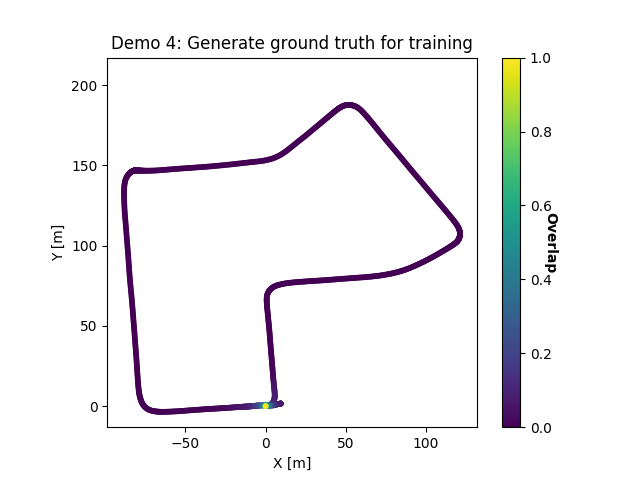
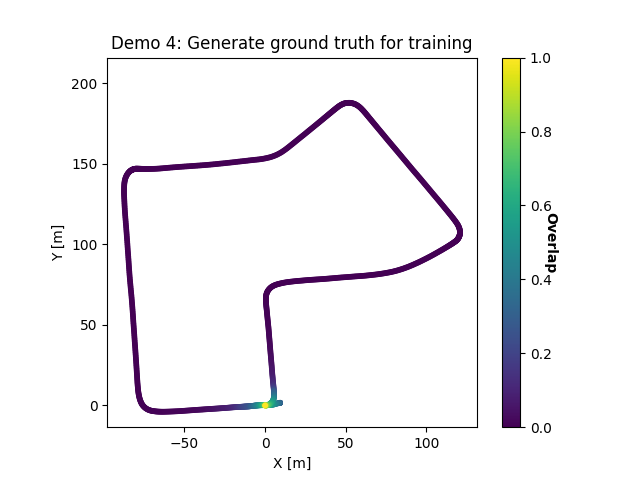
update the ground truth generation script

diff --git a/src/utils/com_overlap_yaw.py b/src/utils/com_overlap_yaw.py
@@ -31,13 +31,14 @@ def com_overlap_yaw(scan_paths, poses, frame_idx, leg_output_width=360):
   visible_points = project_points[current_range > 0]
   valid_num = len(visible_points)
   current_pose = poses[frame_idx]
-  visible_points_world = current_pose.dot(visible_points.T).T
 
-  for refrence_idx in range(len(scan_paths)):
+  for reference_idx in range(len(scan_paths)):
     # generate range projection for the reference frame
-    refrence_pose = poses[refrence_idx]
-    points_reference = np.linalg.inv(refrence_pose).dot(visible_points_world.T).T
-    reference_range, reference_points, _, _ = range_projection(points_reference)
+    reference_pose = poses[reference_idx]
+    reference_points = load_vertex(scan_paths[reference_idx])
+    reference_points_world = reference_pose.dot(reference_points.T).T
+    reference_points_in_current = np.linalg.inv(current_pose).dot(reference_points_world.T).T
+    reference_range, _, _, _ = range_projection(reference_points_in_current)
     
     # calculate overlap
     overlap = np.count_nonzero(
@@ -45,7 +46,7 @@ def com_overlap_yaw(scan_paths, poses, frame_idx, leg_output_width=360):
     overlaps.append(overlap)
     
     # calculate yaw angle
-    relative_transform = np.linalg.inv(current_pose).dot(refrence_pose)
+    relative_transform = np.linalg.inv(current_pose).dot(reference_pose)
     relative_rotation = relative_transform[:3, :3]
     _, _, yaw = euler_angles_from_rotation_matrix(relative_rotation)
 
@@ -53,7 +54,7 @@ def com_overlap_yaw(scan_paths, poses, frame_idx, leg_output_width=360):
     yaw_element_idx = int(- (yaw / np.pi) * yaw_resolution//2 + yaw_resolution//2)
     yaw_idxs.append(yaw_element_idx)
 
-    # print('finished pair id: ', refrence_idx)
+    # print('finished pair id: ', reference_idx)
   
   # ground truth format: each row contains [current_frame_idx, reference_frame_idx, overlap, yaw]
   ground_truth_mapping = np.zeros((len(scan_paths), 4))
